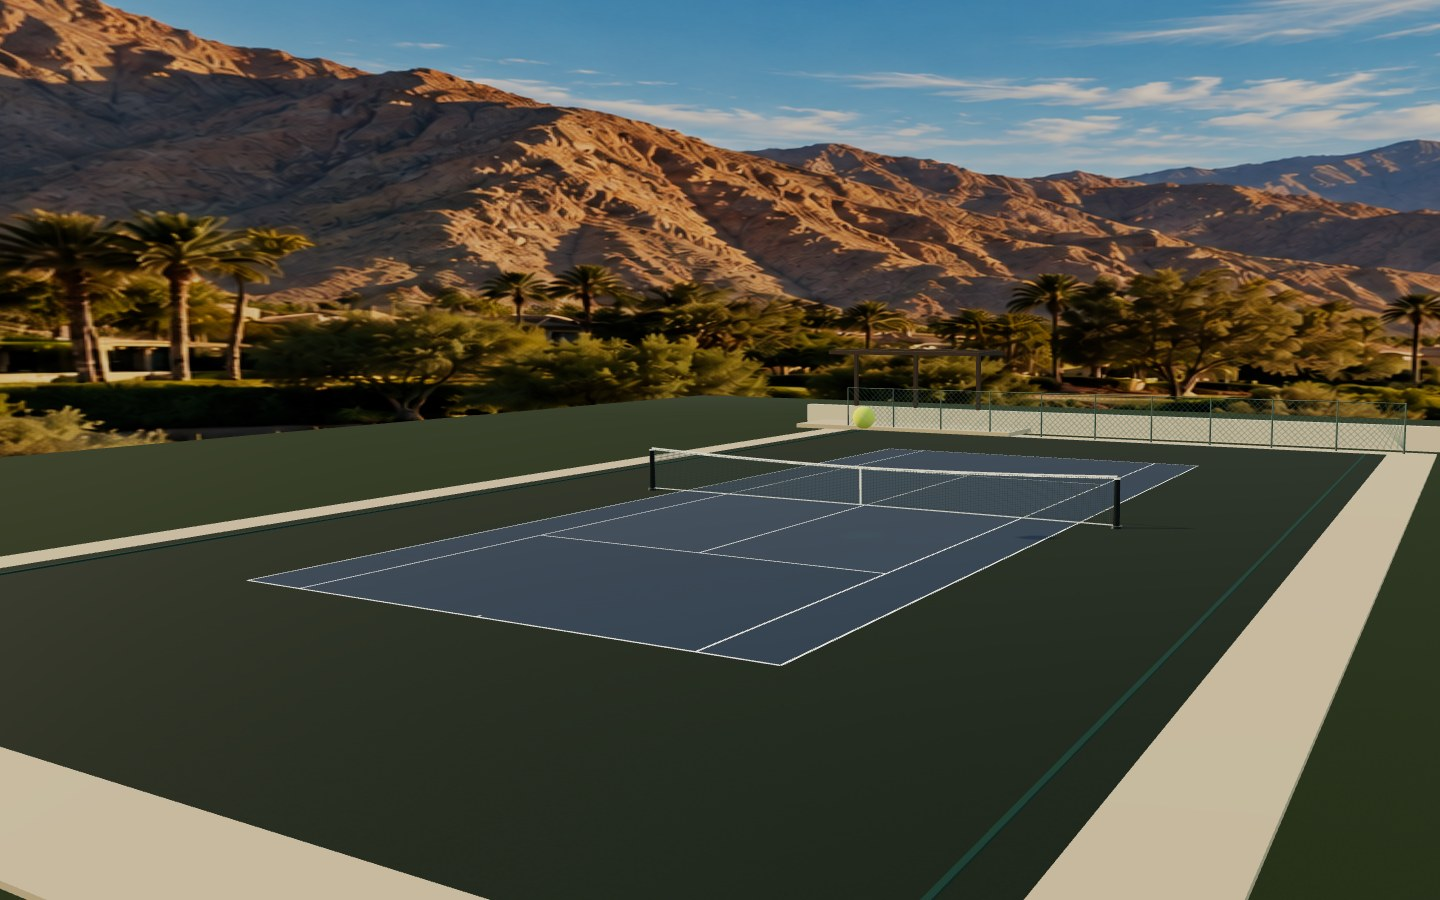
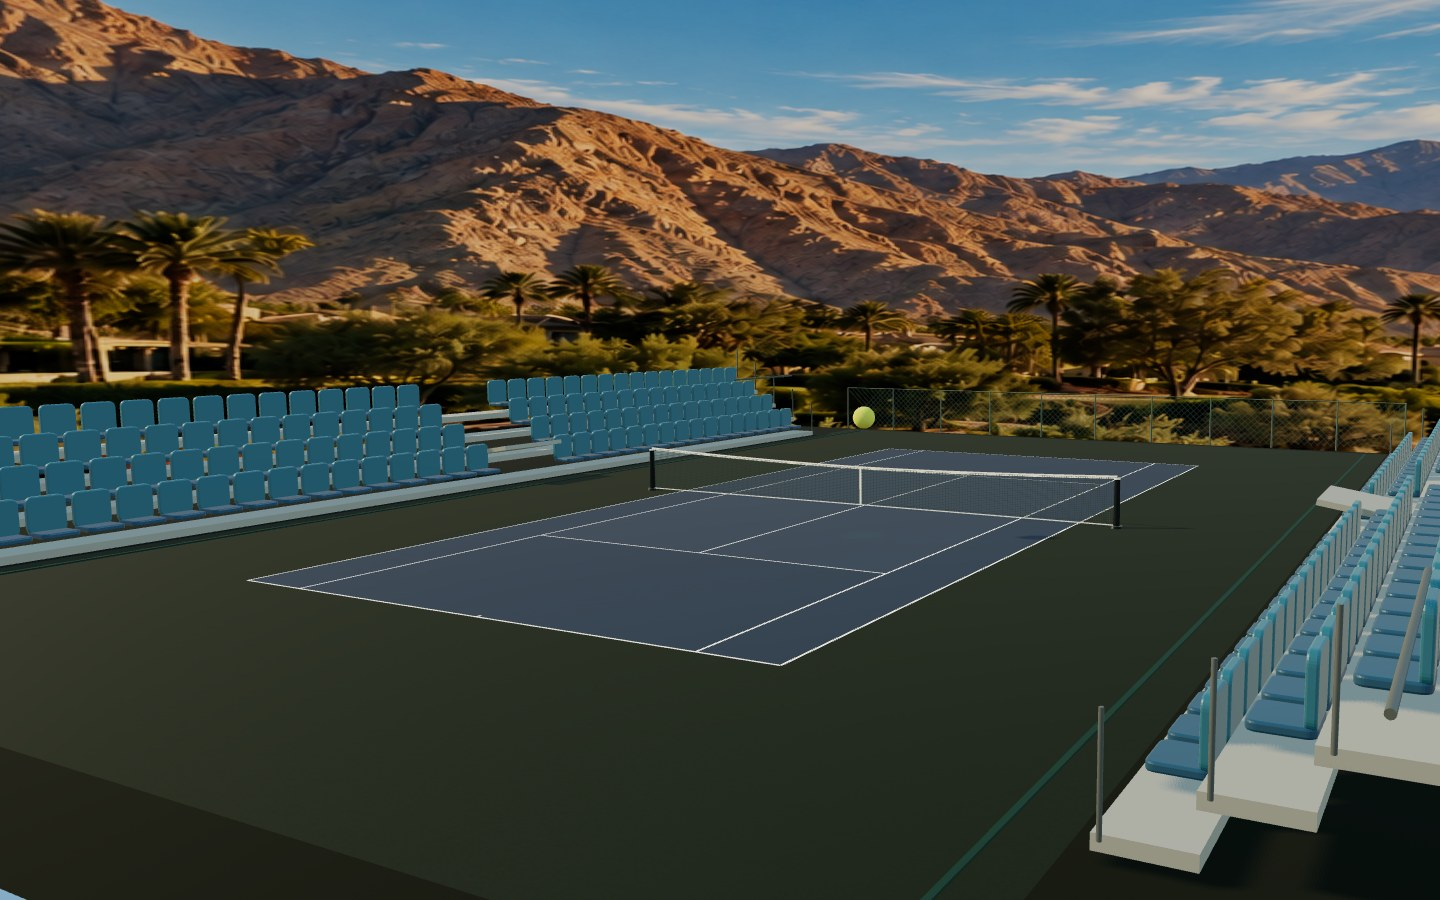
Implement stadium seating

Changed region(s): [[0.0, 0.4044, 1.0, 1.0], [0.0, 0.8089, 0.3438, 1.0], [0.5938, 0.3733, 0.6875, 0.4044]]

diff --git a/client-pc/public/welcome-materials.js b/client-pc/public/welcome-materials.js
@@ -58,16 +58,9 @@ export function createResortWorld(scene,renderer,lowPower) {
   const envTexture=canvasTexture(skyCanvas,true);envTexture.mapping=THREE.EquirectangularReflectionMapping;
   const pmrem=new THREE.PMREMGenerator(renderer);const environment=pmrem.fromEquirectangular(envTexture);scene.environment=environment.texture;scene.environmentIntensity=.55;envTexture.dispose();pmrem.dispose();
   const random=rng(141);
-  const terrainGeometry=new THREE.PlaneGeometry(64,72);terrainGeometry.rotateX(-Math.PI/2);
-  const terrain=new THREE.Mesh(terrainGeometry,new THREE.MeshStandardMaterial({map:groundTexture(),color:'#53654f',roughness:.98}));terrain.position.y=-.12;terrain.receiveShadow=true;scene.add(terrain);
-  const stone=new THREE.MeshStandardMaterial({color:'#b9aa8e',roughness:.9});
-  const edging=new THREE.Mesh(new THREE.BoxGeometry(24,.16,39),stone);edging.position.y=-.13;edging.receiveShadow=true;scene.add(edging);
-  const retaining=new THREE.Mesh(new THREE.BoxGeometry(29,1.05,.4),new THREE.MeshStandardMaterial({color:'#d0c5ae',roughness:.82}));retaining.position.set(0,.25,-21);retaining.castShadow=retaining.receiveShadow=true;scene.add(retaining);
-  const deck=new THREE.Mesh(new THREE.BoxGeometry(10,.18,3.4),stone);deck.position.set(-8.5,.03,-20);deck.receiveShadow=true;scene.add(deck);
-  const timber=new THREE.MeshStandardMaterial({color:'#3f342c',roughness:.72});
-  for(const x of [-12,-9,-6]){const post=new THREE.Mesh(new THREE.BoxGeometry(.16,3.2,.16),timber);post.position.set(x,1.6,-21);post.castShadow=true;scene.add(post);}
-  const pergola=new THREE.Mesh(new THREE.BoxGeometry(7.2,.16,2.8),timber);pergola.position.set(-9,3.2,-21);pergola.castShadow=true;scene.add(pergola);
-  for(let z=-22;z<=-20;z+=.42){const slat=new THREE.Mesh(new THREE.BoxGeometry(7.2,.07,.12),timber);slat.position.set(-9,3.3,z);slat.castShadow=true;scene.add(slat);}
+  const terrainGeometry=new THREE.PlaneGeometry(44,39);terrainGeometry.rotateX(-Math.PI/2);
+  const terrain=new THREE.Mesh(terrainGeometry,new THREE.MeshStandardMaterial({map:groundTexture(),color:'#2b3833',roughness:.96}));terrain.position.y=-.12;terrain.receiveShadow=true;scene.add(terrain);
+  createStadiumSeating(scene,lowPower);
   // A low, fine fence frames the court instead of hiding the mountain horizon.
   const fenceMaterial=new THREE.MeshStandardMaterial({color:'#60736a',roughness:.72,metalness:.15});
   const wires=[];
@@ -102,4 +95,46 @@ function groundTexture(){
  ctx.fillStyle='#7c875b';ctx.fillRect(0,0,512,512);
  for(let i=0;i<60000;i++){ctx.fillStyle=['#4c614c35','#bab88b45','#69784d55','#d0c49925'][i%4];ctx.fillRect(random()*512,random()*512,.4+random()*2,.4+random()*3);}
  const t=canvasTexture(canvas,true);t.wrapS=t.wrapT=THREE.RepeatWrapping;t.repeat.set(70,60);return t;
+}
+
+function roundedPanel(width,height,depth,radius=.09) {
+  const x=-width/2,y=-height/2,shape=new THREE.Shape();
+  shape.moveTo(x+radius,y);shape.lineTo(x+width-radius,y);shape.quadraticCurveTo(x+width,y,x+width,y+radius);
+  shape.lineTo(x+width,y+height-radius);shape.quadraticCurveTo(x+width,y+height,x+width-radius,y+height);
+  shape.lineTo(x+radius,y+height);shape.quadraticCurveTo(x,y+height,x,y+height-radius);
+  shape.lineTo(x,y+radius);shape.quadraticCurveTo(x,y,x+radius,y);
+  const geometry=new THREE.ExtrudeGeometry(shape,{depth,bevelEnabled:true,bevelSegments:2,bevelSize:.025,bevelThickness:.025,curveSegments:8});
+  geometry.center();geometry.computeVertexNormals();return geometry;
+}
+
+function createStadiumSeating(scene,lowPower) {
+  const stand=new THREE.Group();stand.name='welcomeSidelineStands';
+  const concrete=new THREE.MeshStandardMaterial({color:'#9aa09b',roughness:.78,metalness:.04});
+  const metal=new THREE.MeshStandardMaterial({color:'#77848a',roughness:.38,metalness:.72});
+  const blue=new THREE.MeshPhysicalMaterial({color:'#285a78',roughness:.38,metalness:.02,clearcoat:.35,clearcoatRoughness:.5});
+  const accent=new THREE.MeshPhysicalMaterial({color:'#34748a',roughness:.4,metalness:.02,clearcoat:.28});
+  const seatGeometry=roundedPanel(.58,.62,.055,.095);seatGeometry.rotateX(Math.PI/2);
+  const backGeometry=roundedPanel(.64,.68,.065,.11);backGeometry.rotateY(Math.PI/2);
+  const columns=[];for(let z=-14.2;z<=14.2;z+=.82)if(Math.abs(z)>1.22)columns.push(z);
+  const count=columns.length*4*2;
+  const seats=new THREE.InstancedMesh(seatGeometry,blue,count),backs=new THREE.InstancedMesh(backGeometry,accent,count);
+  seats.castShadow=backs.castShadow=!lowPower;seats.receiveShadow=backs.receiveShadow=true;
+  const matrix=new THREE.Matrix4(),quaternion=new THREE.Quaternion(),scale=new THREE.Vector3(1,1,1);let index=0;
+  for(const side of [-1,1]) {
+    for(let row=0;row<4;row++) {
+      const outward=11.15+row*.88,elevation=.38+row*.53;
+      const tread=new THREE.Mesh(new THREE.BoxGeometry(.92,.16,30.2),concrete);tread.position.set(side*outward,elevation-.3,0);tread.castShadow=tread.receiveShadow=true;stand.add(tread);
+      for(const z of columns) {
+        matrix.compose(new THREE.Vector3(side*outward,elevation,z),quaternion,scale);seats.setMatrixAt(index,matrix);
+        matrix.compose(new THREE.Vector3(side*(outward+.25),elevation+.37,z),quaternion,scale);backs.setMatrixAt(index,matrix);index++;
+      }
+    }
+    const aisle=new THREE.Mesh(new THREE.BoxGeometry(3.75,.12,2.15),concrete);aisle.position.set(side*12.5,.72,0);aisle.rotation.z=side*-.16;aisle.castShadow=aisle.receiveShadow=true;stand.add(aisle);
+    for(const z of [-15.2,15.2]) {
+      const rail=new THREE.Mesh(new THREE.CylinderGeometry(.035,.035,4.2,10),metal);rail.rotation.x=Math.PI/2;rail.position.set(side*13.1,2.25,z);rail.castShadow=true;stand.add(rail);
+      for(let row=0;row<5;row++){const post=new THREE.Mesh(new THREE.CylinderGeometry(.026,.026,1.15,8),metal);post.position.set(side*(10.8+row*.9),.72+row*.53,z);stand.add(post);}
+    }
+  }
+  seats.instanceMatrix.needsUpdate=backs.instanceMatrix.needsUpdate=true;stand.add(seats,backs);
+  scene.add(stand);
 }

diff --git a/client-pc/public/welcome.css b/client-pc/public/welcome.css
@@ -193,8 +193,8 @@ h1 {
   white-space:nowrap;
 }
 h1 span {
-  color:transparent;
-  -webkit-text-stroke:1px #e9eee0c2;
+  color:#f7f7ef;
+  -webkit-text-stroke:0;
 }
 h2 {
   font-size:clamp(44px,5.1vw,88px);
@@ -1128,7 +1128,7 @@ dialog::backdrop {
 .hero-label,.edition { text-shadow:0 1px 8px #172c32; }
 .hero-bottom-copy>p:not(.eyebrow),.chapter-copy>p:not(.eyebrow) { color:#eef0e8; }
 h1 { letter-spacing:-.065em; }
-h1 span { -webkit-text-stroke:1px rgba(255,255,246,.86); }
+h1 span { color:#f7f7ef;-webkit-text-stroke:0; }
 .chapter-copy h2 { font-size:clamp(44px,4.7vw,78px); }
 .chapter-copy .minor { color:#d0dcd7!important; }
 .spec-line { margin:22px 0;padding:16px 0;border-bottom:0; }
